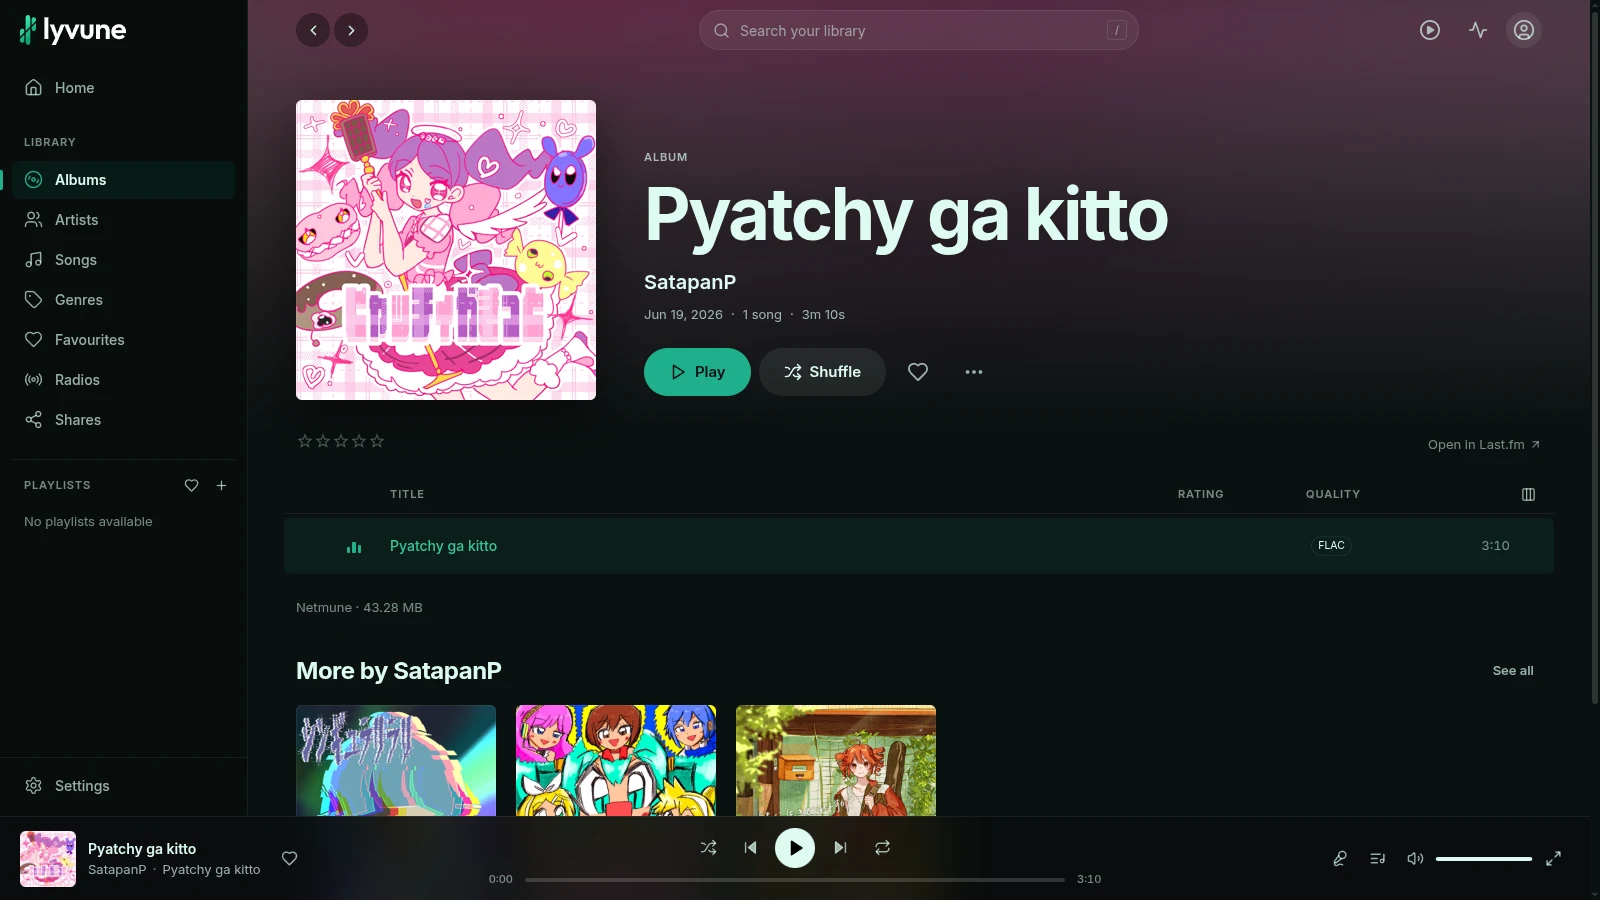
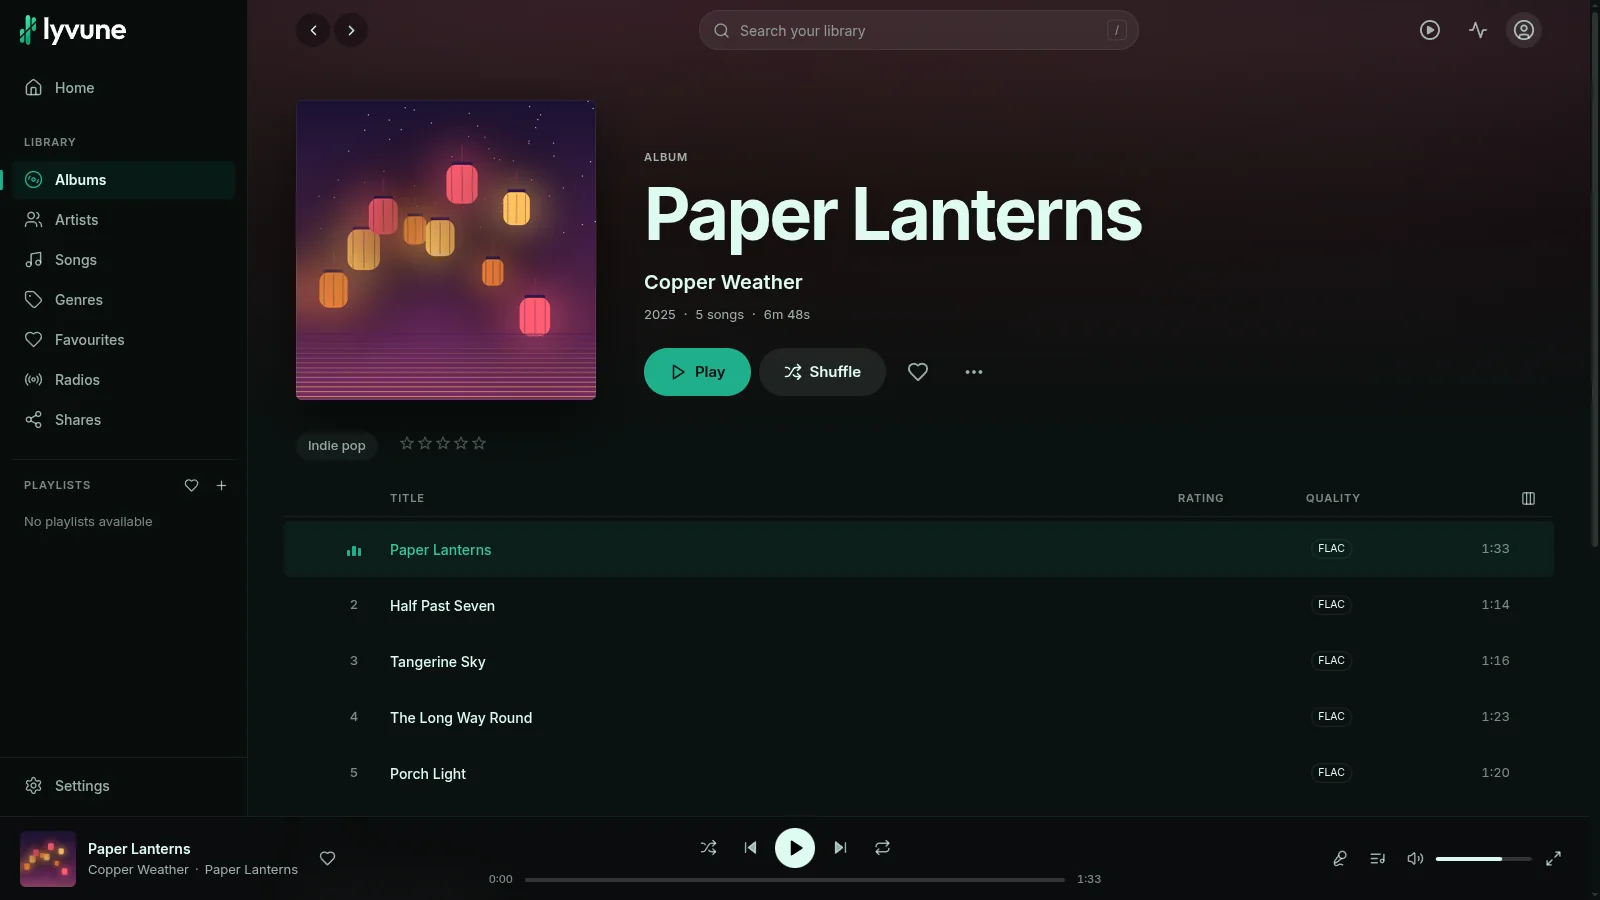
docs: screenshots taken with the demo library
The seven screenshots are retaken in an isolated Lyvune with its own empty database and the demo library, with the same
views and sizes as before: the karaoke view (an English song, the words being lit, the source of the lyrics shown), home,
albums, an album with the player bar, romanization in both styles (a Japanese song), and the phone. Nothing in them is
anyone else's music, cover or words. The earlier images stay in the history of the repository and in the v0.1.0-alpha.1
tag. The README says what the screenshots use.

diff --git a/README.md b/README.md
@@ -75,7 +75,8 @@ licence and copyright notices kept. See [Credits and licence](#credits-and-licen
 
 ## Screenshots
 
-The karaoke view is at the top of this page. The rest of the player:
+The karaoke view is at the top of this page. The rest of the player. All the screenshots use a demo library, with music,
+covers and lyrics created for this project and released under CC0 (see [`scripts/demo-library`](scripts/demo-library/README.md)).
 
 **Home**
 
